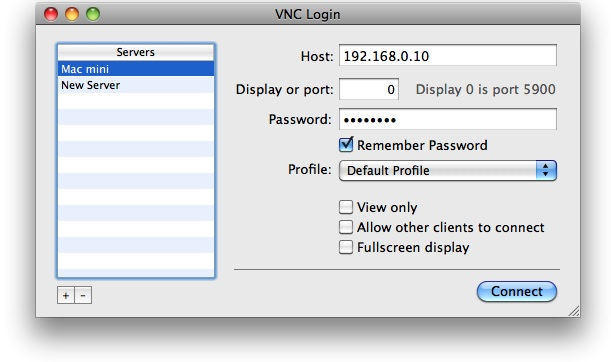
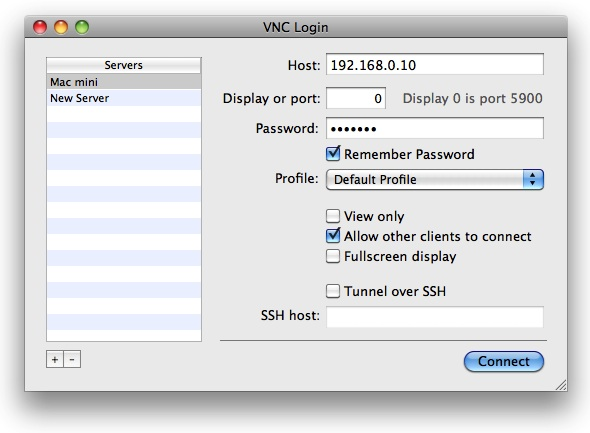
Updated screen shot of connection window to include SSH tunnelling options.
git-svn-id: svn://svn.code.sf.net/p/chicken/code/trunk/cotvnc@749 9ce1af06-8ae8-4ba5-be20-3b57e42882c5

diff --git a/Resources/help/getting-started.html b/Resources/help/getting-started.html
@@ -17,7 +17,7 @@
 
 	<p>Use it just like any other VNC client - enter the address of a working VNC server (you can use <em>host:port</em> notation if you wish), the display number and your password and rock'n'roll...</p>
 
-	<div class="ss"><img src="connect.jpg" width="611" height="362" alt="Connection Dialog" /></div>
+	<div class="ss"><img src="connect.jpg" width="590" height="433" alt="Connection Dialog" /></div>
 	
 	<ul class="explanation">
 		<li><span class="item">Servers:</span>  You can store commonly used servers in this section.  Use the + and - buttons to add and remove servers.</li>
